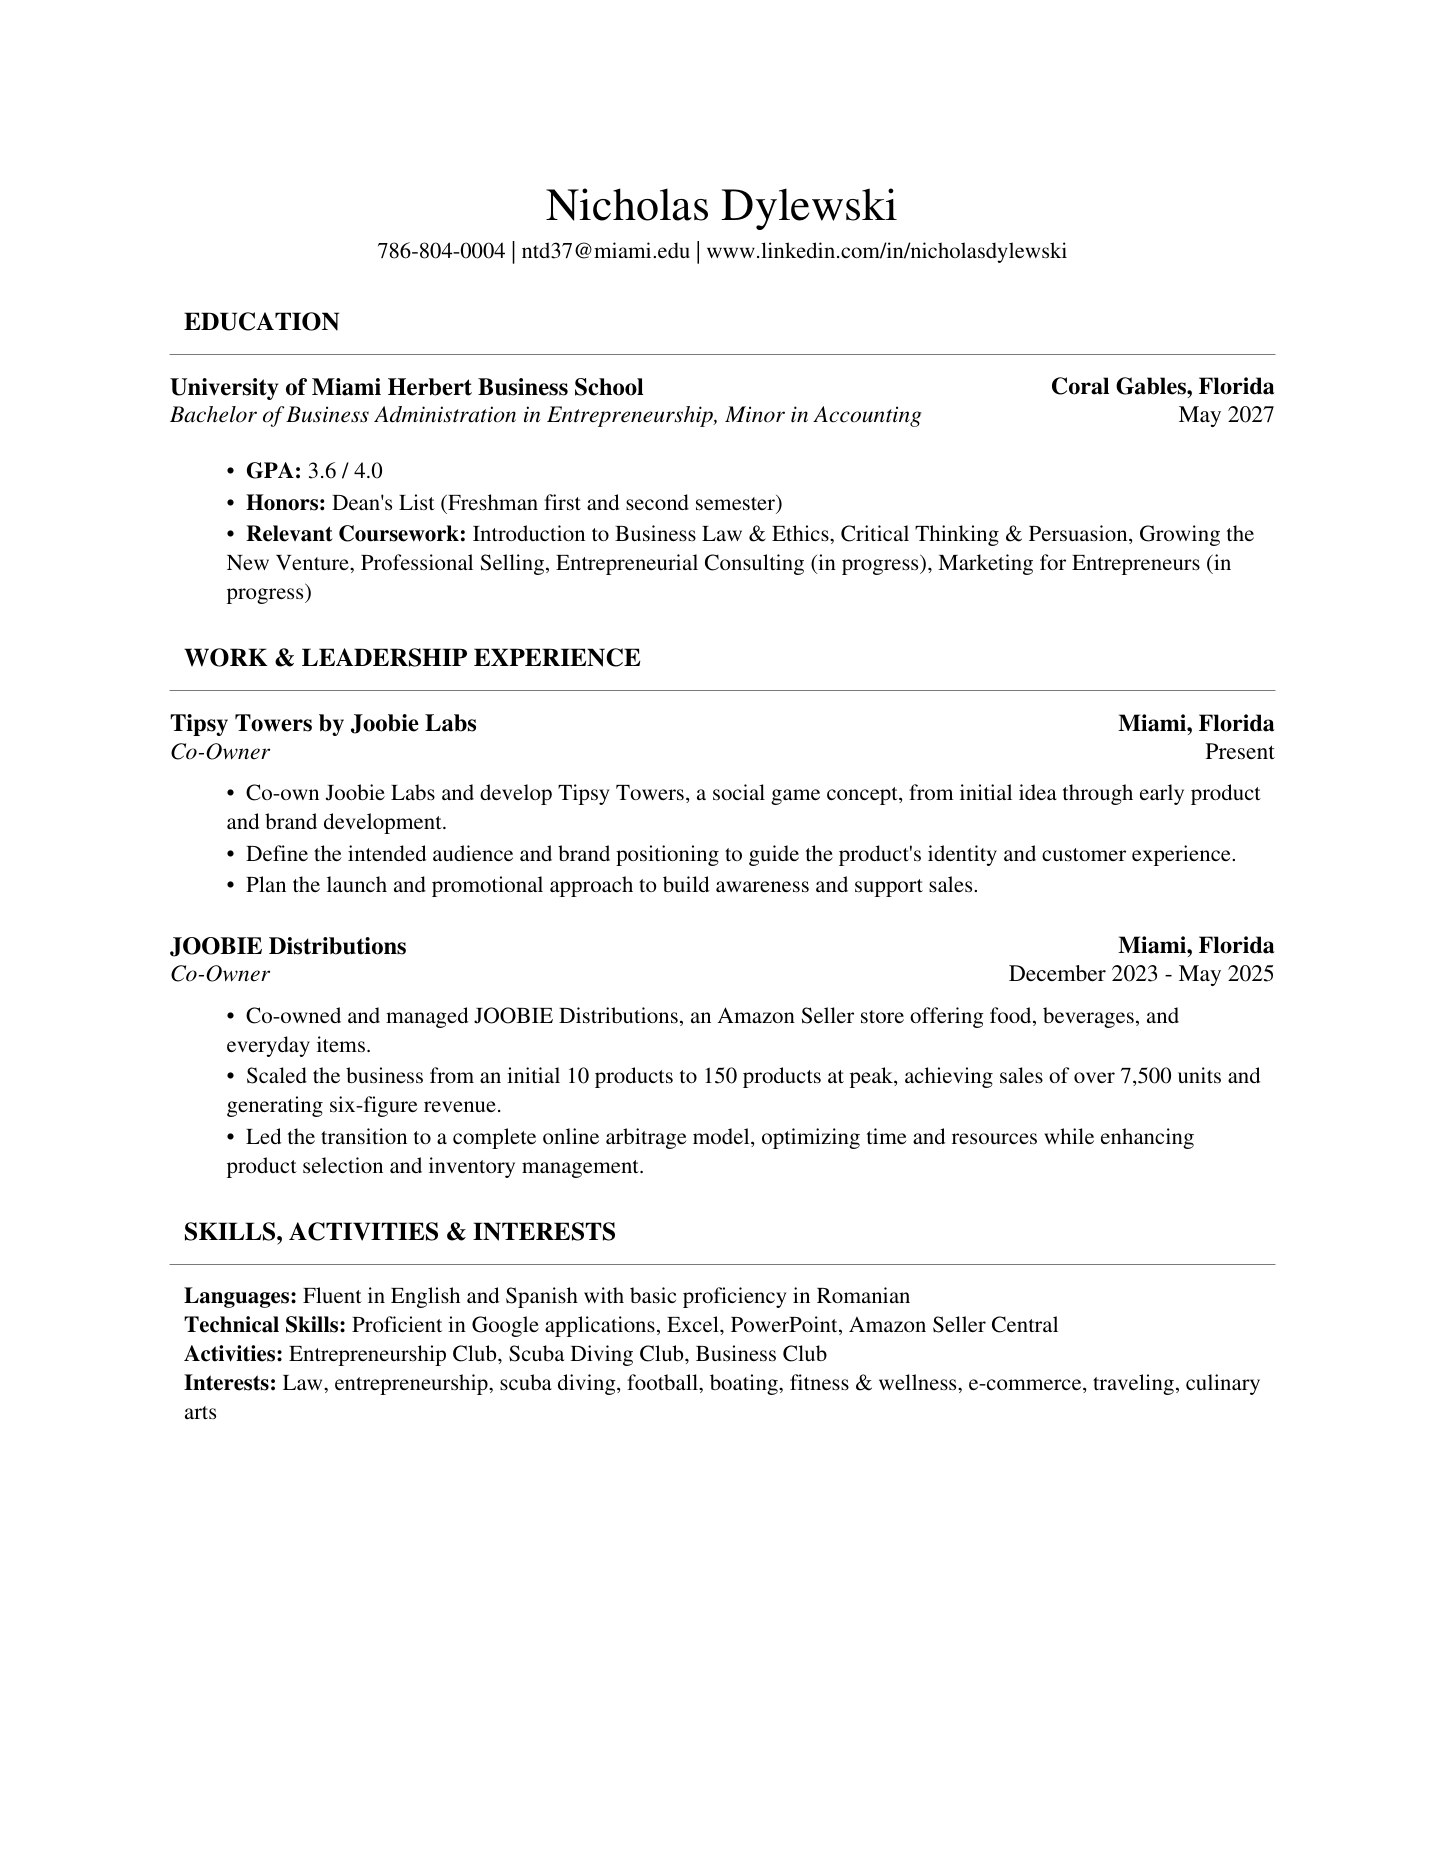
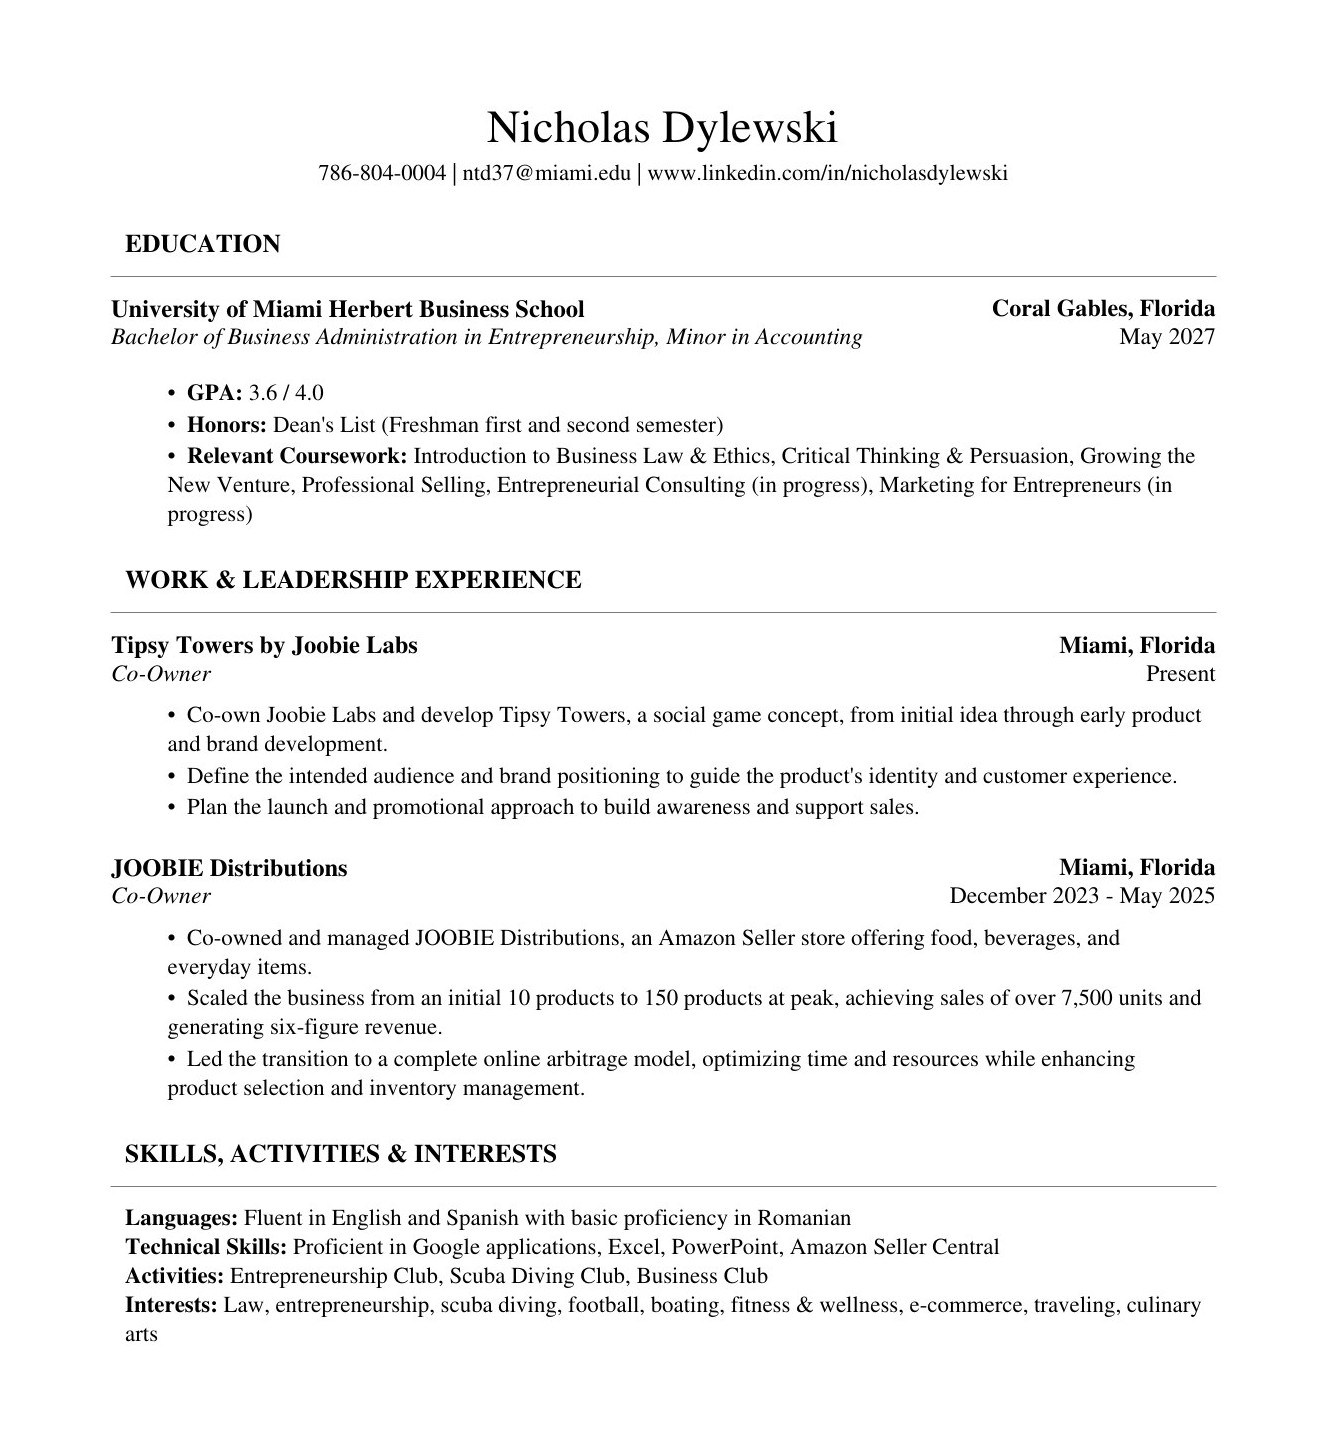
Show resume image side by side with resume details
Claude-Session: https://claude.ai/code/session_01AAFKdBTd4U5A8UjRgrajs3

diff --git a/resume.html b/resume.html
@@ -9,7 +9,7 @@
 <link rel="preconnect" href="https://fonts.googleapis.com">
 <link rel="preconnect" href="https://fonts.gstatic.com" crossorigin>
 <link href="https://fonts.googleapis.com/css2?family=Inter:wght@400;600;700&family=Libre+Baskerville:ital,wght@0,400;0,700;1,400&display=swap" rel="stylesheet">
-<link rel="stylesheet" href="css/style.css">
+<link rel="stylesheet" href="css/style.css?v=3">
 </head>
 <body>
 <header class="site-header">
@@ -38,11 +38,12 @@
 </section>
 
 <section class="section">
-  <div class="container" style="max-width:860px">
+  <div class="container resume-layout">
     <figure class="resume-sheet">
       <a href="files/Nicholas-Dylewski-Resume.pdf" target="_blank" title="Open Nicholas Dylewski resume PDF"><img src="images/nicholas-dylewski-resume.jpg" alt="Nicholas Dylewski resume" title="Nicholas Dylewski resume"></a>
-      <figcaption>Click the resume to open the PDF. My newest venture, Artemin.ai, is listed in the details below.</figcaption>
+      <figcaption>Click the resume to open the PDF. My newest venture, Artemin.ai, is listed in the details.</figcaption>
     </figure>
+    <div class="resume-details">
     <div class="resume-block">
       <span class="eyebrow">Education</span>
       <div class="resume-item">
@@ -88,7 +89,7 @@
       </div>
     </div>
 
-    <div class="resume-block grid grid-2">
+    <div class="resume-block grid">
       <div class="card">
         <h3>Languages</h3>
         <p>Fluent in English and Spanish; basic proficiency in Romanian</p>
@@ -101,6 +102,7 @@
         <h3>Interests</h3>
         <p>Law, entrepreneurship, scuba diving, football, boating, fitness &amp; wellness, e-commerce, traveling, culinary arts</p>
       </div>
+    </div>
     </div>
   </div>
 </section>
@@ -133,6 +135,6 @@
     <div class="copyright">&copy; <span id="year">2026</span> Nicholas Dylewski. All rights reserved.</div>
   </div>
 </footer>
-<script src="js/main.js" defer></script>
+<script src="js/main.js?v=3" defer></script>
 </body>
 </html>

diff --git a/css/style.css b/css/style.css
@@ -247,3 +247,7 @@ button.btn { cursor: pointer; font: inherit; font-weight: 600; }
 .resume-sheet img { width: 100%; border-radius: 6px; border: 1px solid var(--line); box-shadow: 0 18px 40px rgba(15,42,61,.18); background: #fff; }
 .send-options { margin-top: 20px; padding: 18px 20px; background: var(--paper); border: 1px solid var(--line); border-left: 4px solid var(--gold); border-radius: 8px; }
 .send-options p { margin: 0; }
+.resume-layout { display: grid; grid-template-columns: 1fr 1fr; gap: 48px; align-items: start; }
+.resume-layout .resume-sheet { position: sticky; top: 90px; margin: 0; }
+.resume-layout .resume-sheet figcaption { margin-top: 12px; }
+@media (max-width: 900px) { .resume-layout { grid-template-columns: 1fr; } .resume-layout .resume-sheet { position: static; } }
